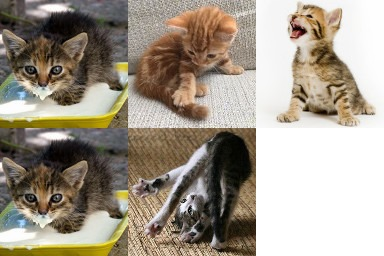
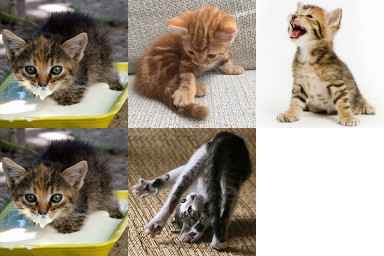
Added image compression quality setting, defaulted to 40.

diff --git a/src/BooBooKittyFuck.php b/src/BooBooKittyFuck.php
@@ -51,6 +51,13 @@ class BooBooKittyFuck
     protected $imagePath = null;
 
     /**
+     * The image compression quality.
+     *
+     * @var integer
+     */
+    protected $quality = 40;
+
+    /**
      * The Brainfuck source for this program.
      *
      * @var string
@@ -100,6 +107,16 @@ class BooBooKittyFuck
     public function getImagePath()
     {
         return $this->imagePath;
+    }
+
+    /**
+     * Get the image compression quality.
+     *
+     * @return integer The image compression quality.
+     */
+    public function getQuality()
+    {
+        return $this->quality;
     }
 
     /**
@@ -210,6 +227,19 @@ class BooBooKittyFuck
     }
 
     /**
+     * Set the image compression quality.
+     *
+     * @param integer $quality The image compression quality.
+     *
+     * @return BooBooKittyFuck Allow method chaining.
+     */
+    public function setQuality($quality)
+    {
+        $this->quality = (int) $quality;
+        return $this;
+    }
+
+    /**
      * Set the Brainfuck source for this program.
      *
      * @param string $bf The Brainfuck source for this program.
@@ -250,6 +280,7 @@ class BooBooKittyFuck
             '0x0+0+0'
         );
         $this->image->setImageFormat('jpg');
+        $this->image->setImageCompressionQuality($this->quality);
 
         return $this;
 
